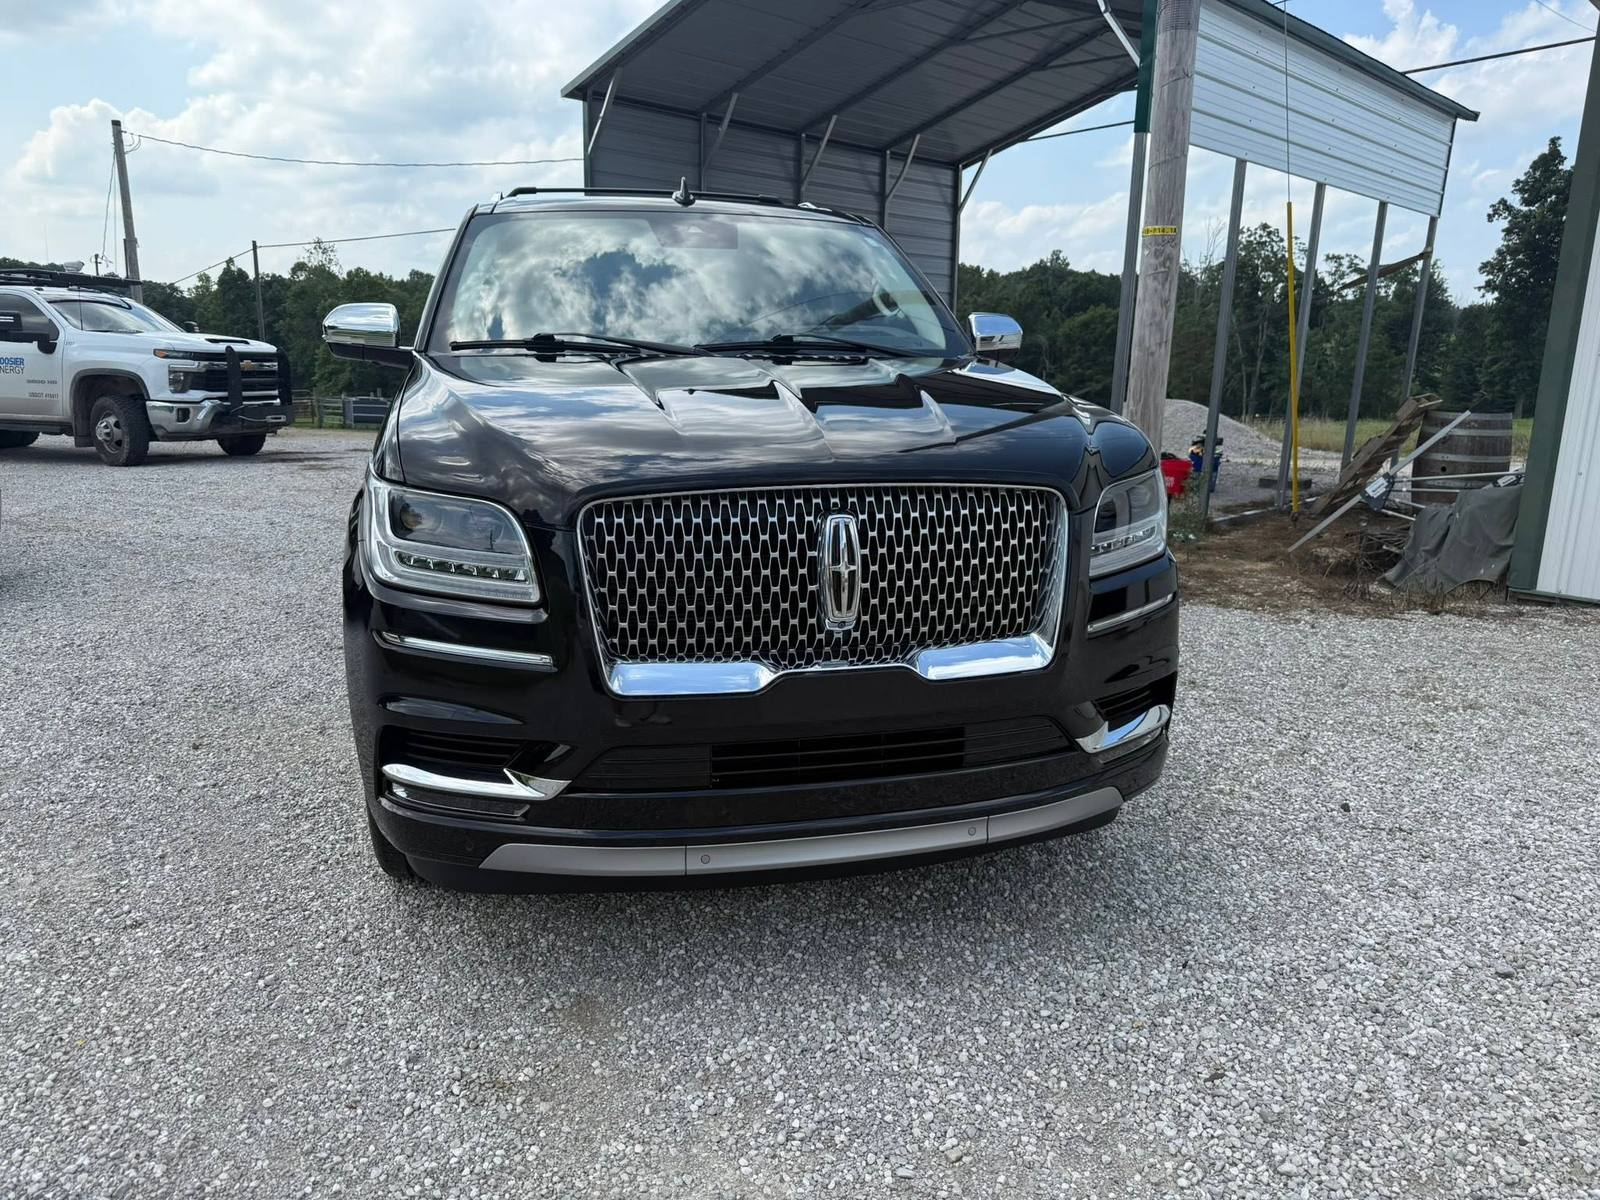
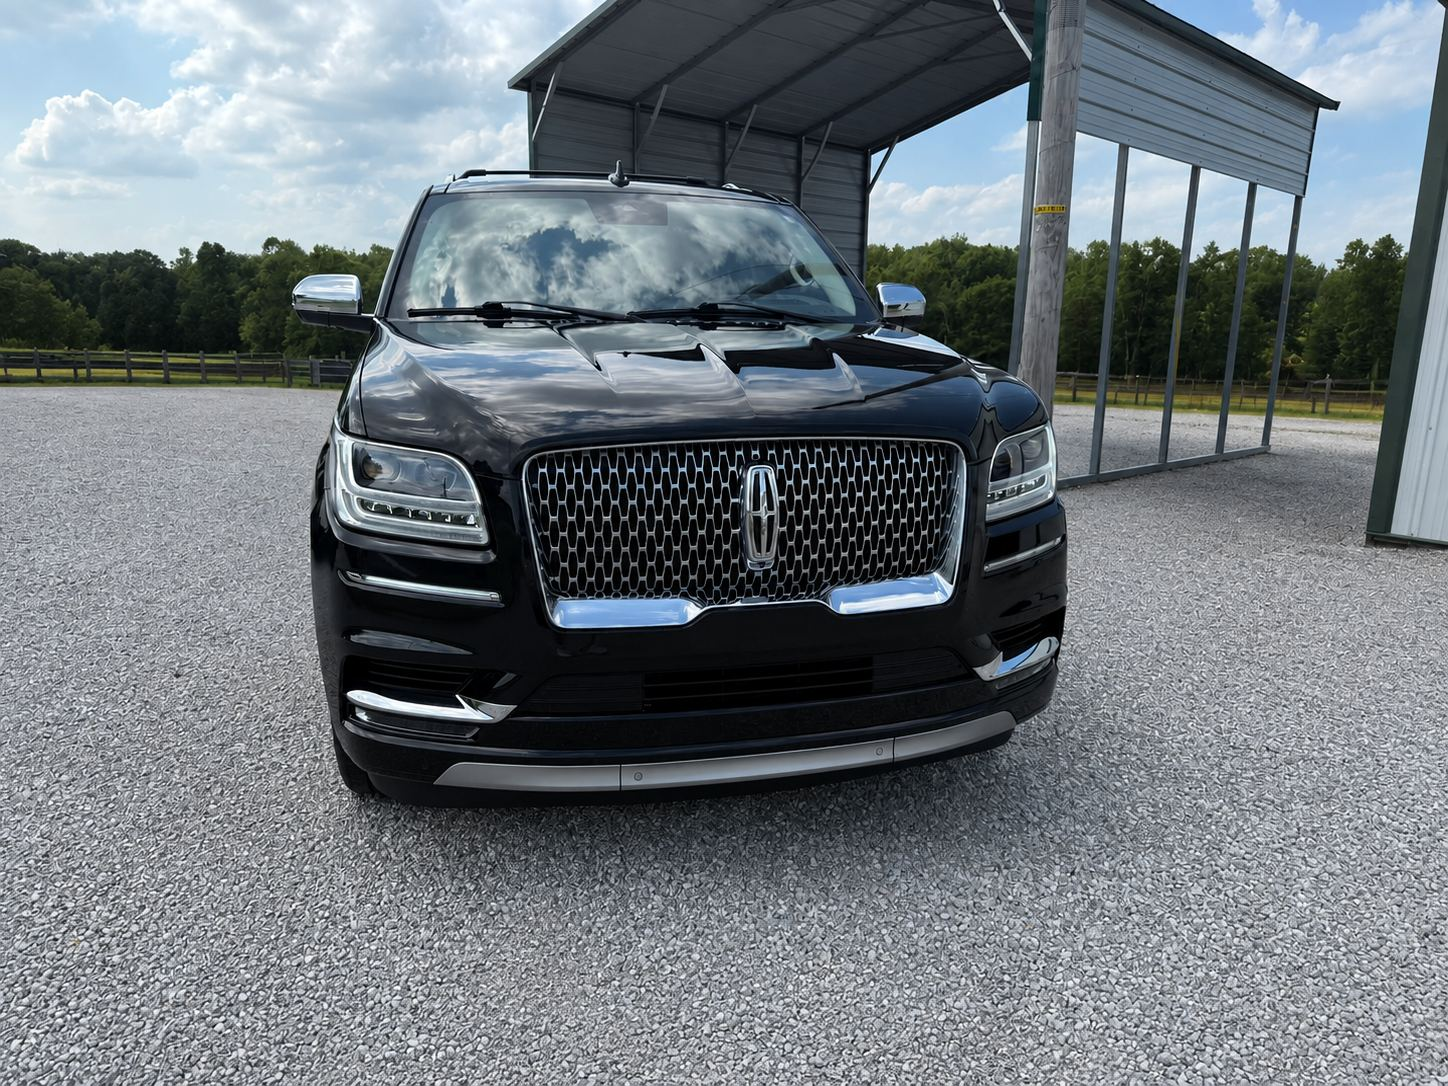
Swap in the new Navigator front photo for the homepage hero
Full front three-quarter view with sky, treeline and gravel, replacing the tighter
grille crop. Encoded from the original at native 1448x1086 (no upscaling), 359KB.
Hero object-position moved from 62% to 45% so the whole vehicle stays in frame at
desktop height instead of the roofline being cut; verified by rendering the crop at
the measured hero boxes with the real scrim, desktop and mobile. Dimension attributes
updated and the src cache-busted, since the filename is unchanged.

Original kept in source-photos/work/.

diff --git a/gallery.html b/gallery.html
@@ -25,7 +25,7 @@
   <link rel="preconnect" href="https://fonts.googleapis.com">
   <link rel="preconnect" href="https://fonts.gstatic.com" crossorigin>
   <link href="https://fonts.googleapis.com/css2?family=Big+Shoulders+Display:wght@700;800&family=Inter:wght@400;500;600;700&display=swap" rel="stylesheet">
-  <link rel="stylesheet" href="style.css?v=14">
+  <link rel="stylesheet" href="style.css?v=15">
 </head>
 <body>
 
@@ -220,7 +220,7 @@
         <div class="jc-head"><h3>Lincoln Navigator, Full Mobile Detail</h3><span class="jc-tag">Full detail</span></div>
         <div class="jc-media">
           <figure><img src="img/navigator-side.jpg" alt="Black Lincoln Navigator with glossy paint and dressed tires" loading="lazy"></figure>
-          <figure><img src="img/navigator-front.jpg" alt="Front of the detailed Lincoln Navigator" loading="lazy"></figure>
+          <figure><img src="img/navigator-front.jpg?v=2" alt="Front of the detailed Lincoln Navigator" loading="lazy"></figure>
           <figure><img src="img/navigator-seats.jpg?v=2" alt="Cream leather seats after a deep interior detail" loading="lazy"></figure>
           <figure><span class="jc-more">+5 more</span><img src="img/navigator-dash.jpg" alt="Spotless dashboard and steering wheel" loading="lazy"></figure>
           <figure><img src="img/navigator-profile.jpg" alt="Side profile of the detailed Lincoln Navigator" loading="lazy"></figure>
@@ -427,6 +427,6 @@
   <p class="lb-cap" hidden></p>
 </div>
 
-<script src="main.js?v=14"></script>
+<script src="main.js?v=15"></script>
 </body>
 </html>

diff --git a/index.html b/index.html
@@ -25,7 +25,7 @@
   <link rel="preconnect" href="https://fonts.googleapis.com">
   <link rel="preconnect" href="https://fonts.gstatic.com" crossorigin>
   <link href="https://fonts.googleapis.com/css2?family=Big+Shoulders+Display:wght@700;800&family=Inter:wght@400;500;600;700&display=swap" rel="stylesheet">
-  <link rel="stylesheet" href="style.css?v=14">
+  <link rel="stylesheet" href="style.css?v=15">
   <script type="application/ld+json">
   {
     "@context": "https://schema.org",
@@ -64,7 +64,7 @@
 </header>
 
 <section class="hero">
-  <div class="bg"><img src="img/navigator-front.jpg" alt="Black Lincoln Navigator freshly detailed by Detailz Matter" width="1600" height="1200" fetchpriority="high"></div>
+  <div class="bg"><img src="img/navigator-front.jpg?v=2" alt="Black Lincoln Navigator freshly detailed by Detailz Matter" width="1448" height="1086" fetchpriority="high"></div>
   <div class="wrap">
     <p class="eyebrow">Ramsey, Indiana &middot; Mobile &amp; Shop Service</p>
     <h1>Scratches Out.<br>Shine Back.</h1>
@@ -272,6 +272,6 @@
   <p class="lb-cap" hidden></p>
 </div>
 
-<script src="main.js?v=14"></script>
+<script src="main.js?v=15"></script>
 </body>
 </html>

diff --git a/before-after-preview.html b/before-after-preview.html
@@ -11,7 +11,7 @@
   <link rel="preconnect" href="https://fonts.googleapis.com">
   <link rel="preconnect" href="https://fonts.gstatic.com" crossorigin>
   <link href="https://fonts.googleapis.com/css2?family=Big+Shoulders+Display:wght@700;800&family=Inter:wght@400;500;600;700&display=swap" rel="stylesheet">
-  <link rel="stylesheet" href="style.css?v=14">
+  <link rel="stylesheet" href="style.css?v=15">
   <style>
     .review-note{background:#fdf3d7;border:1.5px solid #e3c96a;border-radius:10px;
       padding:1rem 1.2rem;margin:1.5rem 0;font-size:.98rem}
@@ -85,6 +85,6 @@
   <p class="lb-cap" hidden></p>
 </div>
 
-<script src="main.js?v=14"></script>
+<script src="main.js?v=15"></script>
 </body>
 </html>

diff --git a/style.css b/style.css
@@ -79,7 +79,7 @@ p{margin:.4rem 0 1rem}
 /* ---------- hero ---------- */
 .hero{position:relative;background:var(--navy-deep);color:var(--paper);overflow:hidden}
 .hero .bg{position:absolute;inset:0}
-.hero .bg img{width:100%;height:100%;object-fit:cover;object-position:center 62%}
+.hero .bg img{width:100%;height:100%;object-fit:cover;object-position:center 45%}
 .hero .bg::after{content:"";position:absolute;inset:0;
   background:linear-gradient(180deg,rgba(10,18,27,.72) 0%,rgba(10,18,27,.55) 45%,rgba(10,18,27,.92) 100%)}
 .hero .wrap{position:relative;z-index:2;padding:7.5rem 0 6.5rem;max-width:820px;text-align:center}

diff --git a/about.html b/about.html
@@ -25,7 +25,7 @@
   <link rel="preconnect" href="https://fonts.googleapis.com">
   <link rel="preconnect" href="https://fonts.gstatic.com" crossorigin>
   <link href="https://fonts.googleapis.com/css2?family=Big+Shoulders+Display:wght@700;800&family=Inter:wght@400;500;600;700&display=swap" rel="stylesheet">
-  <link rel="stylesheet" href="style.css?v=14">
+  <link rel="stylesheet" href="style.css?v=15">
 </head>
 <body>
 
@@ -178,6 +178,6 @@
   <p class="lb-cap" hidden></p>
 </div>
 
-<script src="main.js?v=14"></script>
+<script src="main.js?v=15"></script>
 </body>
 </html>

diff --git a/contact.html b/contact.html
@@ -25,7 +25,7 @@
   <link rel="preconnect" href="https://fonts.googleapis.com">
   <link rel="preconnect" href="https://fonts.gstatic.com" crossorigin>
   <link href="https://fonts.googleapis.com/css2?family=Big+Shoulders+Display:wght@700;800&family=Inter:wght@400;500;600;700&display=swap" rel="stylesheet">
-  <link rel="stylesheet" href="style.css?v=14">
+  <link rel="stylesheet" href="style.css?v=15">
 </head>
 <body>
 
@@ -205,6 +205,6 @@
   <p class="lb-cap" hidden></p>
 </div>
 
-<script src="main.js?v=14"></script>
+<script src="main.js?v=15"></script>
 </body>
 </html>

diff --git a/services.html b/services.html
@@ -25,7 +25,7 @@
   <link rel="preconnect" href="https://fonts.googleapis.com">
   <link rel="preconnect" href="https://fonts.gstatic.com" crossorigin>
   <link href="https://fonts.googleapis.com/css2?family=Big+Shoulders+Display:wght@700;800&family=Inter:wght@400;500;600;700&display=swap" rel="stylesheet">
-  <link rel="stylesheet" href="style.css?v=14">
+  <link rel="stylesheet" href="style.css?v=15">
 </head>
 <body>
 
@@ -182,6 +182,6 @@
   <p class="lb-cap" hidden></p>
 </div>
 
-<script src="main.js?v=14"></script>
+<script src="main.js?v=15"></script>
 </body>
 </html>

diff --git a/404.html b/404.html
@@ -13,7 +13,7 @@
   <link rel="preconnect" href="https://fonts.googleapis.com">
   <link rel="preconnect" href="https://fonts.gstatic.com" crossorigin>
   <link href="https://fonts.googleapis.com/css2?family=Big+Shoulders+Display:wght@700;800&family=Inter:wght@400;500;600;700&display=swap" rel="stylesheet">
-  <link rel="stylesheet" href="/style.css?v=14">
+  <link rel="stylesheet" href="/style.css?v=15">
 </head>
 <body>
 
